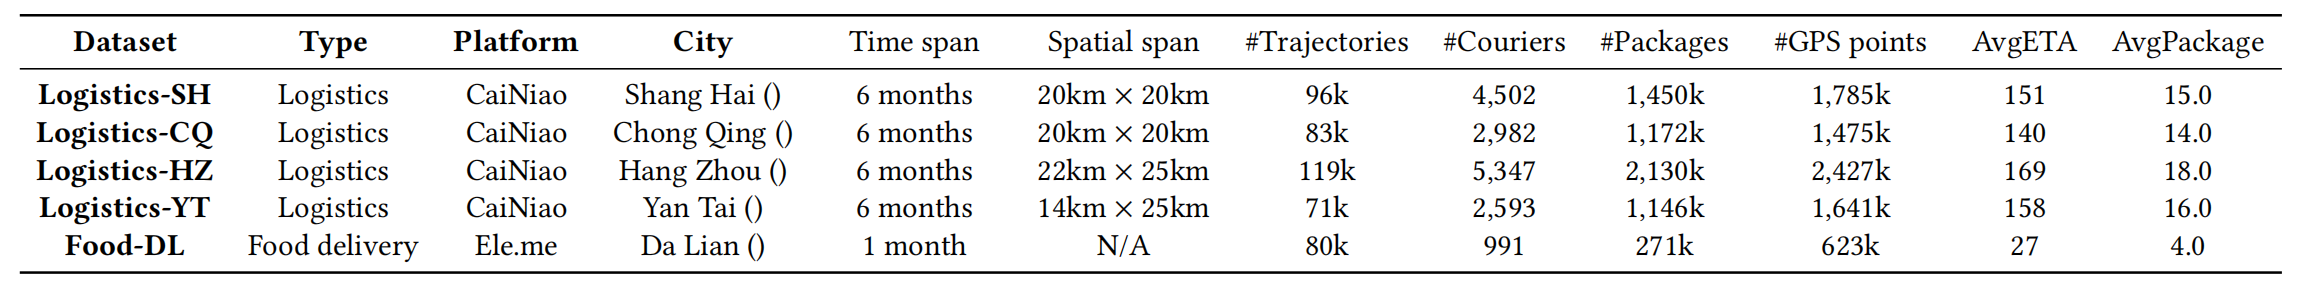
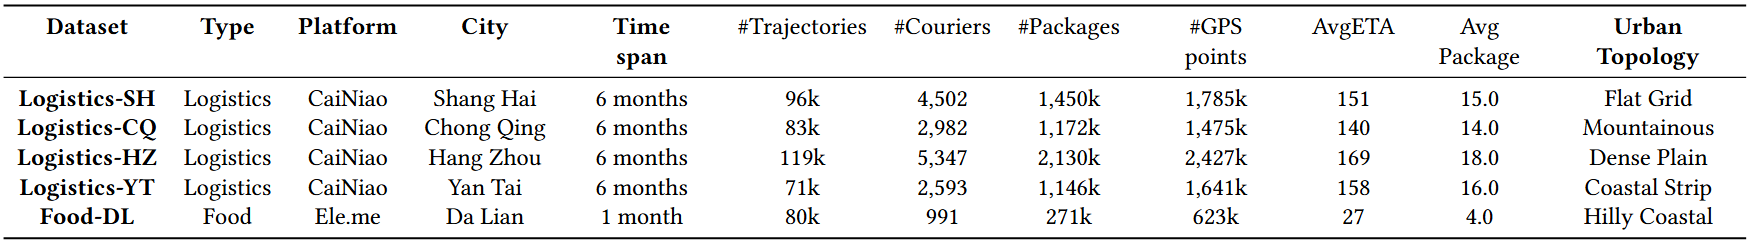
70%

Changed region(s): [[0.0, 0.0, 1.0, 0.9218], [0.0, 0.9506, 1.0, 1.0], [0.75, 0.3745, 0.7812, 0.4321]]

diff --git a/README.md b/README.md
@@ -91,15 +91,16 @@ SynRTP is implemented in PyTorch and trained on a Tesla V100 (16 GB) GPU. After 
 
 ### 2.2 Dataset Description
 
-We evaluate our approach using two large-scale real-world last-mile delivery datasets from LaDe[^1], collected by Cainiao Network, one of China's largest logistics platforms. The datasets comprise delivery records from ***Shanghai*** and ***Chongqing***, representing diverse urban environments. The summarizes key statistics. Each dataset spans six months and covers approximately 400 km<sup>2</sup>, with couriers serving as workers and delivery tasks as nodes in our formulation.
+We evaluate our approach using five large-scale real-world datasets to ensure robust generalization. Beyond the original logistics datasets from Shanghai and Chongqing (collected by Cainiao Network)LaDe[^1], we incorporate two additional logistics datasets from Hangzhou and Yantai, as well as a cross-domain food delivery dataset from Dalian (collected by Ele.me[^2]). Collectively, these datasets span diverse urban environments (from mountainous terrains to coastal cities) and distinct operational modes (standard logistics vs. on-demand food delivery), providing a comprehensive benchmark for performance evaluation.
 
 [^1]: https://huggingface.co/datasets/Cainiao-AI/LaDe
 
+[^2]: https://tianchi.aliyun.com/competition/entrance/231777/information
 
 
 
 
-The original datasets can be downloaded from the following link: https://huggingface.co/datasets/Cainiao-AI/LaDe. 
+The original datasets can be downloaded from the following link: https://huggingface.co/datasets/Cainiao-AI/LaDe. and https://tianchi.aliyun.com/competition/entrance/231777/information.
 
 Install environment dependencies using the following command:
 
@@ -140,9 +141,7 @@ python run.py
 
 **Table 4** presents the comprehensive performance comparison of SynRTP against state-of-the-art baselines across all five datasets. Our model consistently achieves superior performance in both route prediction (KRC, LSD, HR@3) and time prediction (MAE, RMSE) tasks, demonstrating its robustness across diverse platforms and geographic environments.
 
-To address concerns regarding model stability and experimental variance, we conducted three independent runs for SynRTP to report the mean and standard deviation ($\text{mean} \pm \text{std}$). Due to the limited time window during the rebuttal phase, we were unable to re-train all baselines three times. However, to ensure a rigorous comparison, we prioritized conducting this statistical analysis for the strongest baseline (DRL4Route).
-
-As shown in **Table 5**, SynRTP exhibits low variance and consistently outperforms the strongest baseline across all metrics. We are fully committed to extending this multi-run statistical analysis to all remaining baselines in the final camera-ready version to further ensure the reproducibility of our results.
+To address concerns regarding model stability and experimental variance, we conducted three independent runs for SynRTP to report the mean and standard deviation ($\text{mean} \pm \text{std}$). Due to the limited time window during the rebuttal phase, we were unable to re-train all baselines three times. However, as shown in **Table 5**, SynRTP exhibits low variance across independent runs, demonstrating the inherent stability of our proposed framework. We are fully committed to extending this multi-run statistical analysis to all remaining baselines in the final camera-ready version to further ensure the reproducibility and rigorous comparison of our results.
 
 
 <p align="center"> <b>Table 4</b> Performance comparison on route and time prediction across five datasets. </p>
